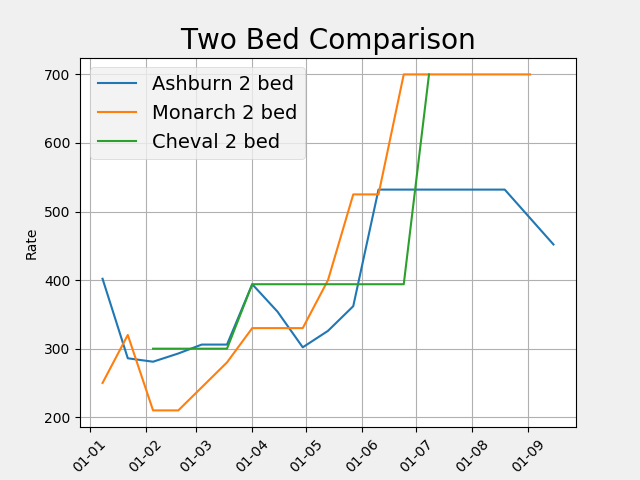
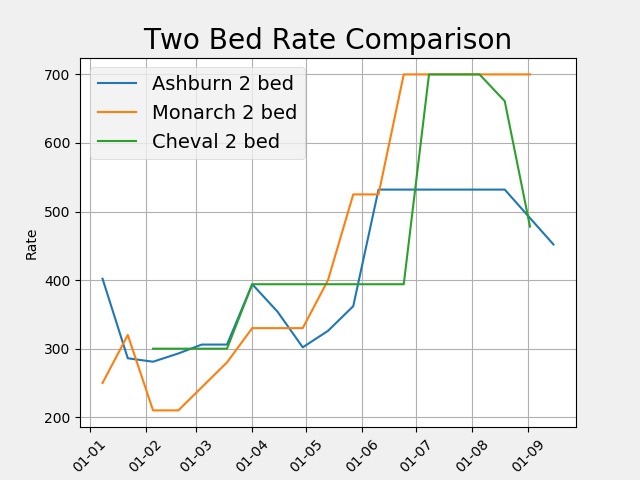
plotting 1 bed and 2 bed completed

diff --git a/shopper.py b/shopper.py
@@ -1,7 +1,7 @@
 import time
 import re
-from datetime import datetime, timedelta
 from requests_html import AsyncHTMLSession
+from datetime import datetime, timedelta
 from matplotlib import pyplot as plt
 import csv
 import myfunc
@@ -66,32 +66,41 @@ for i in range(365):
 #these are for Cheval Harrington Court 
 chcstart_date =  start_date
 chcstart_url=[]
+chc_nights = []
+chcnum_nights = 5
 for i in range(365):
+    if chcstart_date.month > 6:
+        chcnum_nights = 21
     if chcstart_date >= end_Date_User:
         chcstart_url.append(end_Date_User.strftime("%Y-%m-%d"))
+        chc_nights.append(chcnum_nights)        
         break
     else:
         chcstart_url.append(chcstart_date.strftime("%Y-%m-%d"))
         chcstart_date += numdays
-chcnum_nights = 21
-#-------------
+        chc_nights.append(chcnum_nights)
+    
+        
+
 
 storage_che = ["Date", "Chc1bed", "Chc2bed"]
-chevalFile = open('cheval.csv', 'w', newline='')
+chevalFile = open('./data/chevaladd.csv', 'w', newline='')
 cheFile = csv.writer(chevalFile)
 cheFile.writerow(storage_che)
 storage_che = []
 
 storage_ash = ["Date", "Ash1bed", "Ash2bed", "Ash3bed"]
-ashburnFile = open('ashburn.csv', 'w', newline='')
+ashburnFile = open('./data/ashburnadd.csv', 'w', newline='')
 ashFile = csv.writer(ashburnFile)
 ashFile.writerow(storage_ash)
 storage_ash = []
 
 
-#Requesting data from Cheval Harrington Court and Ashburn Court
+
 for i in range(len(start_date_u)):
     ascdate=start_date_u[i]
+    store_date=ascdate.split('-')
+    store_date=store_date[2] + '-' + store_date[1]
     ascdep_date = ascdep_url[i]
     asession = AsyncHTMLSession()
     
@@ -100,11 +109,11 @@ for i in range(len(start_date_u)):
         return r
     
     async def getchc():
-        r = await asession.get(f"https://secure.chevalcollection.com/convert/site/Cheval%20Harrington%20Court[wsJsZoGCLg62hr_WrMSMy9dIwRklPItcNUhU30wAXMo]/en/results.php?checkin={chcstart_url[i]}&nights={chcnum_nights}&currency=GBP&resultViewType=sda&viewtype=rateroom&partya=0")
+        r = await asession.get(f"https://secure.chevalcollection.com/convert/site/Cheval%20Harrington%20Court[wsJsZoGCLg62hr_WrMSMy9dIwRklPItcNUhU30wAXMo]/en/results.php?checkin={chcstart_url[i]}&nights={chc_nights[i]}&currency=GBP&resultViewType=sda&viewtype=rateroom&partya=0")
         return r
         
     results = asession.run(getasc, getchc)
-        
+    
     for result in results:
         print(result)
         match=re.search("cheval",result.html.url)
@@ -115,9 +124,9 @@ for i in range(len(start_date_u)):
 
             print("Cheval Harrington Court")       
             try:
-                discchc1bed = result.html.find("#mbprice_4539166_15070_123", first=True).text
+                discchc1bed = result.html.find("#mbprice_4932506_15069_123", first=True).text
                 if discchc1bed:
-                    chc1bed = myfunc.chc_calc(discchc1bed, chcnum_nights)
+                    chc1bed = myfunc.chc_calc(discchc1bed, chc_nights[i])
                     storage_che.insert(1, chc1bed)
                     print("discount 1 bed " + str(chc1bed))
             except Exception as e:
@@ -125,17 +134,27 @@ for i in range(len(start_date_u)):
                 print("no data discchc1bed")
                 try:
                     chc1bed = result.html.find("#mbprice_6152281_15070_123", first=True).text
-                    chc1bed = myfunc.chc_calc(chc1bed, chcnum_nights)
+                    chc1bed = myfunc.chc_calc(chc1bed, chc_nights[i])
                     storage_che.insert(1, chc1bed)
                     print('advance 1 bed ' + str(chc1bed))             
                 except Exception as e:
                     print(e)         
-                    print("no data chc1bed")
+                    print("no data chc1bed")         
+                    try:
+                        chc1bed = result.html.find("#mbprice_6152281_15069_123", first=True).text
+                        chc1bed = myfunc.chc_calc(chc1bed, chc_nights[i])
+                        storage_che.insert(1, chc1bed)
+                        print('advance 1 bed 21 nights ' + str(chc1bed))             
+                    except Exception as e:
+                        print(e)         
+                        print("no data chc1bed 21 nights")
+            
+
             try:
-                discchc2bed = result.html.find("#mbprice_4539166_15071_123", first=True).text
+                discchc2bed = result.html.find("#mbprice_4932506_15071_123", first=True).text
                 if discchc2bed:
                     chc2bed = discchc2bed
-                    chc2bed = myfunc.chc_calc(chc2bed, chcnum_nights)
+                    chc2bed = myfunc.chc_calc(chc2bed, chc_nights[i])
                     storage_che.insert(2, chc2bed)
                     print("discount 2 bed " + str(chc2bed))
             except Exception as e:
@@ -143,15 +162,23 @@ for i in range(len(start_date_u)):
                 print("no data discchc2bed")
                 try:
                     chc2bed = result.html.find("#mbprice_6152281_15071_123", first=True).text
-                    chc2bed = myfunc.chc_calc(chc2bed, chcnum_nights)
+                    chc2bed = myfunc.chc_calc(chc2bed, chc_nights[i])
                     storage_che.insert(2, chc2bed)
                     print('advance rate 2 bed ' + str(chc2bed))
                 except Exception as e:
                     print(e)
-                    print("no data chc2bed") 
-            
-            if storage_che:
-                storage_che.insert(0, ascdate)
+                    print("no data chc2bed")            
+                    try:
+                        chc2bed = result.html.find("#mbprice_6152281_15071_123", first=True).text
+                        chc2bed = myfunc.chc_calc(chc2bed, chc_nights[i])
+                        storage_che.insert(2, chc2bed)
+                        print('advance rate 2 bed 21 nights ' + str(chc2bed))
+                    except Exception as e:
+                        print(e)
+                        print("no data chc2bed 21nights") 
+
+            if storage_che:                
+                storage_che.insert(0, store_date)
                 print(storage_che)
                 cheFile.writerow(storage_che)
             storage_che = []
@@ -194,9 +221,9 @@ for i in range(len(start_date_u)):
                 print("No data -ASC- Deluxe 3 Bed")
 
             if storage_ash:
-                storage_ash.insert(0, ascdate)
+                storage_ash.insert(0, store_date)
                 print(storage_ash)
-            ashFile.writerow(storage_ash)
+                ashFile.writerow(storage_ash)
             storage_ash = []
 
    
@@ -206,6 +233,6 @@ for i in range(len(start_date_u)):
 
 chevalFile.close()
 ashburnFile.close()
-myfunc.run_plot()
+# myfunc.run_plot1()
 
 input("press any key to terminate,,,")

diff --git a/pandas1test.py b/pandas1test.py
@@ -21,7 +21,7 @@ def run_plot1():
     plt.xlabel("Date")
     plt.ylabel("Rate")
     plt.style.use("fivethirtyeight")
-    plt.title("One Bed Comparison")
+    plt.title("One Bed Rate Comparison")
     plt.legend()
     dm_fmt = mdates.DateFormatter('%d-%m')
     ax.xaxis.set_major_formatter(dm_fmt)

diff --git a/pandas2test.py b/pandas2test.py
@@ -28,7 +28,7 @@ def run_plot1():
     plt.xlabel("Date")
     plt.ylabel("Rate")
     plt.style.use("fivethirtyeight")
-    plt.title("Two Bed Comparison")
+    plt.title("Two Bed Rate Comparison")
     plt.legend()
     dm_fmt = mdates.DateFormatter('%d-%m')
     ax.xaxis.set_major_formatter(dm_fmt)
